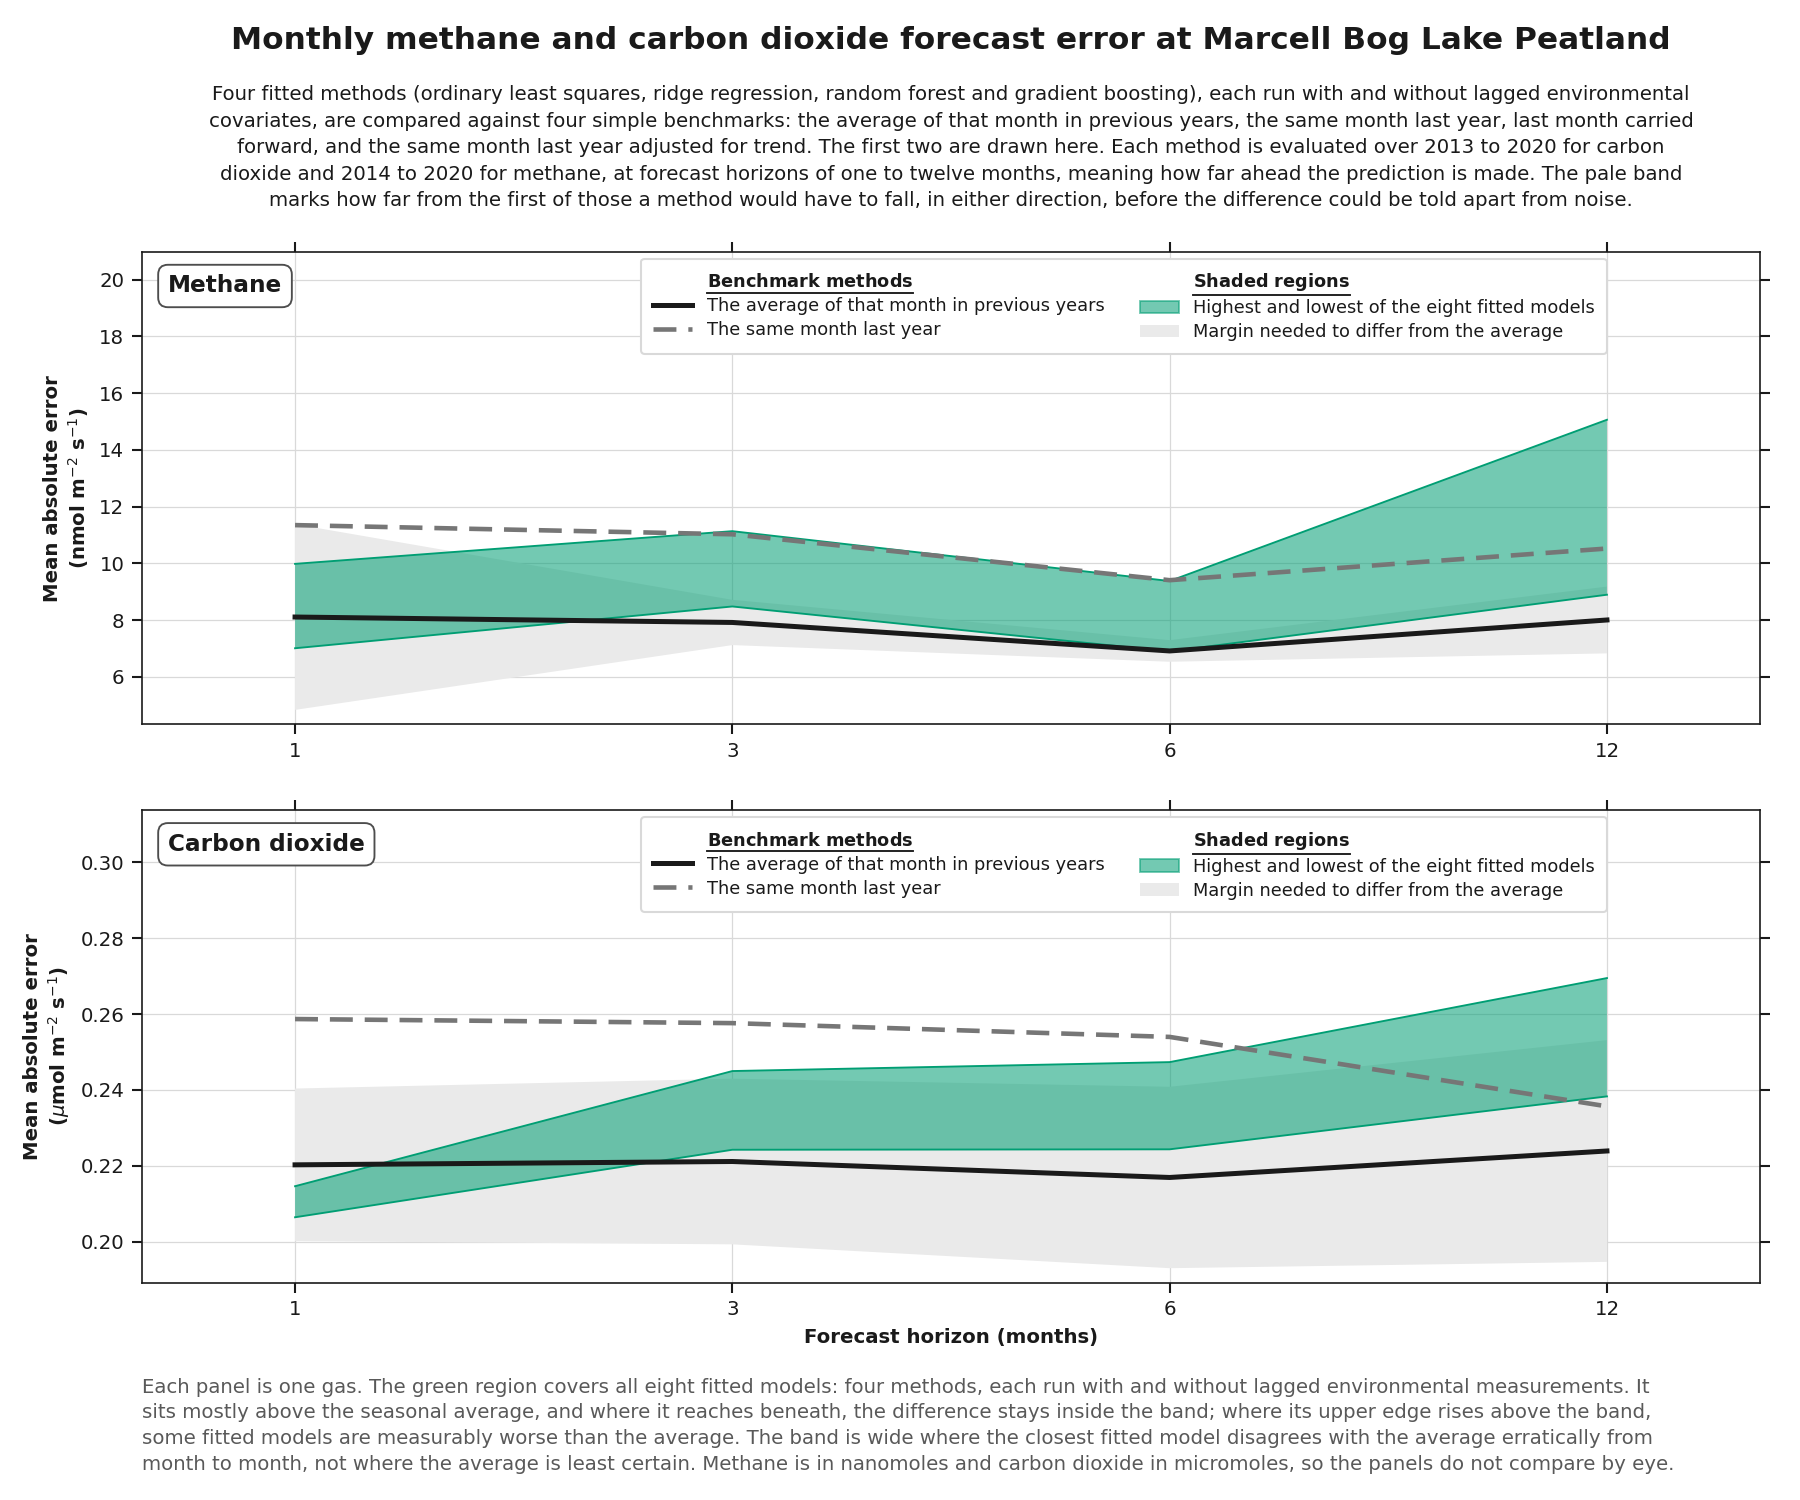
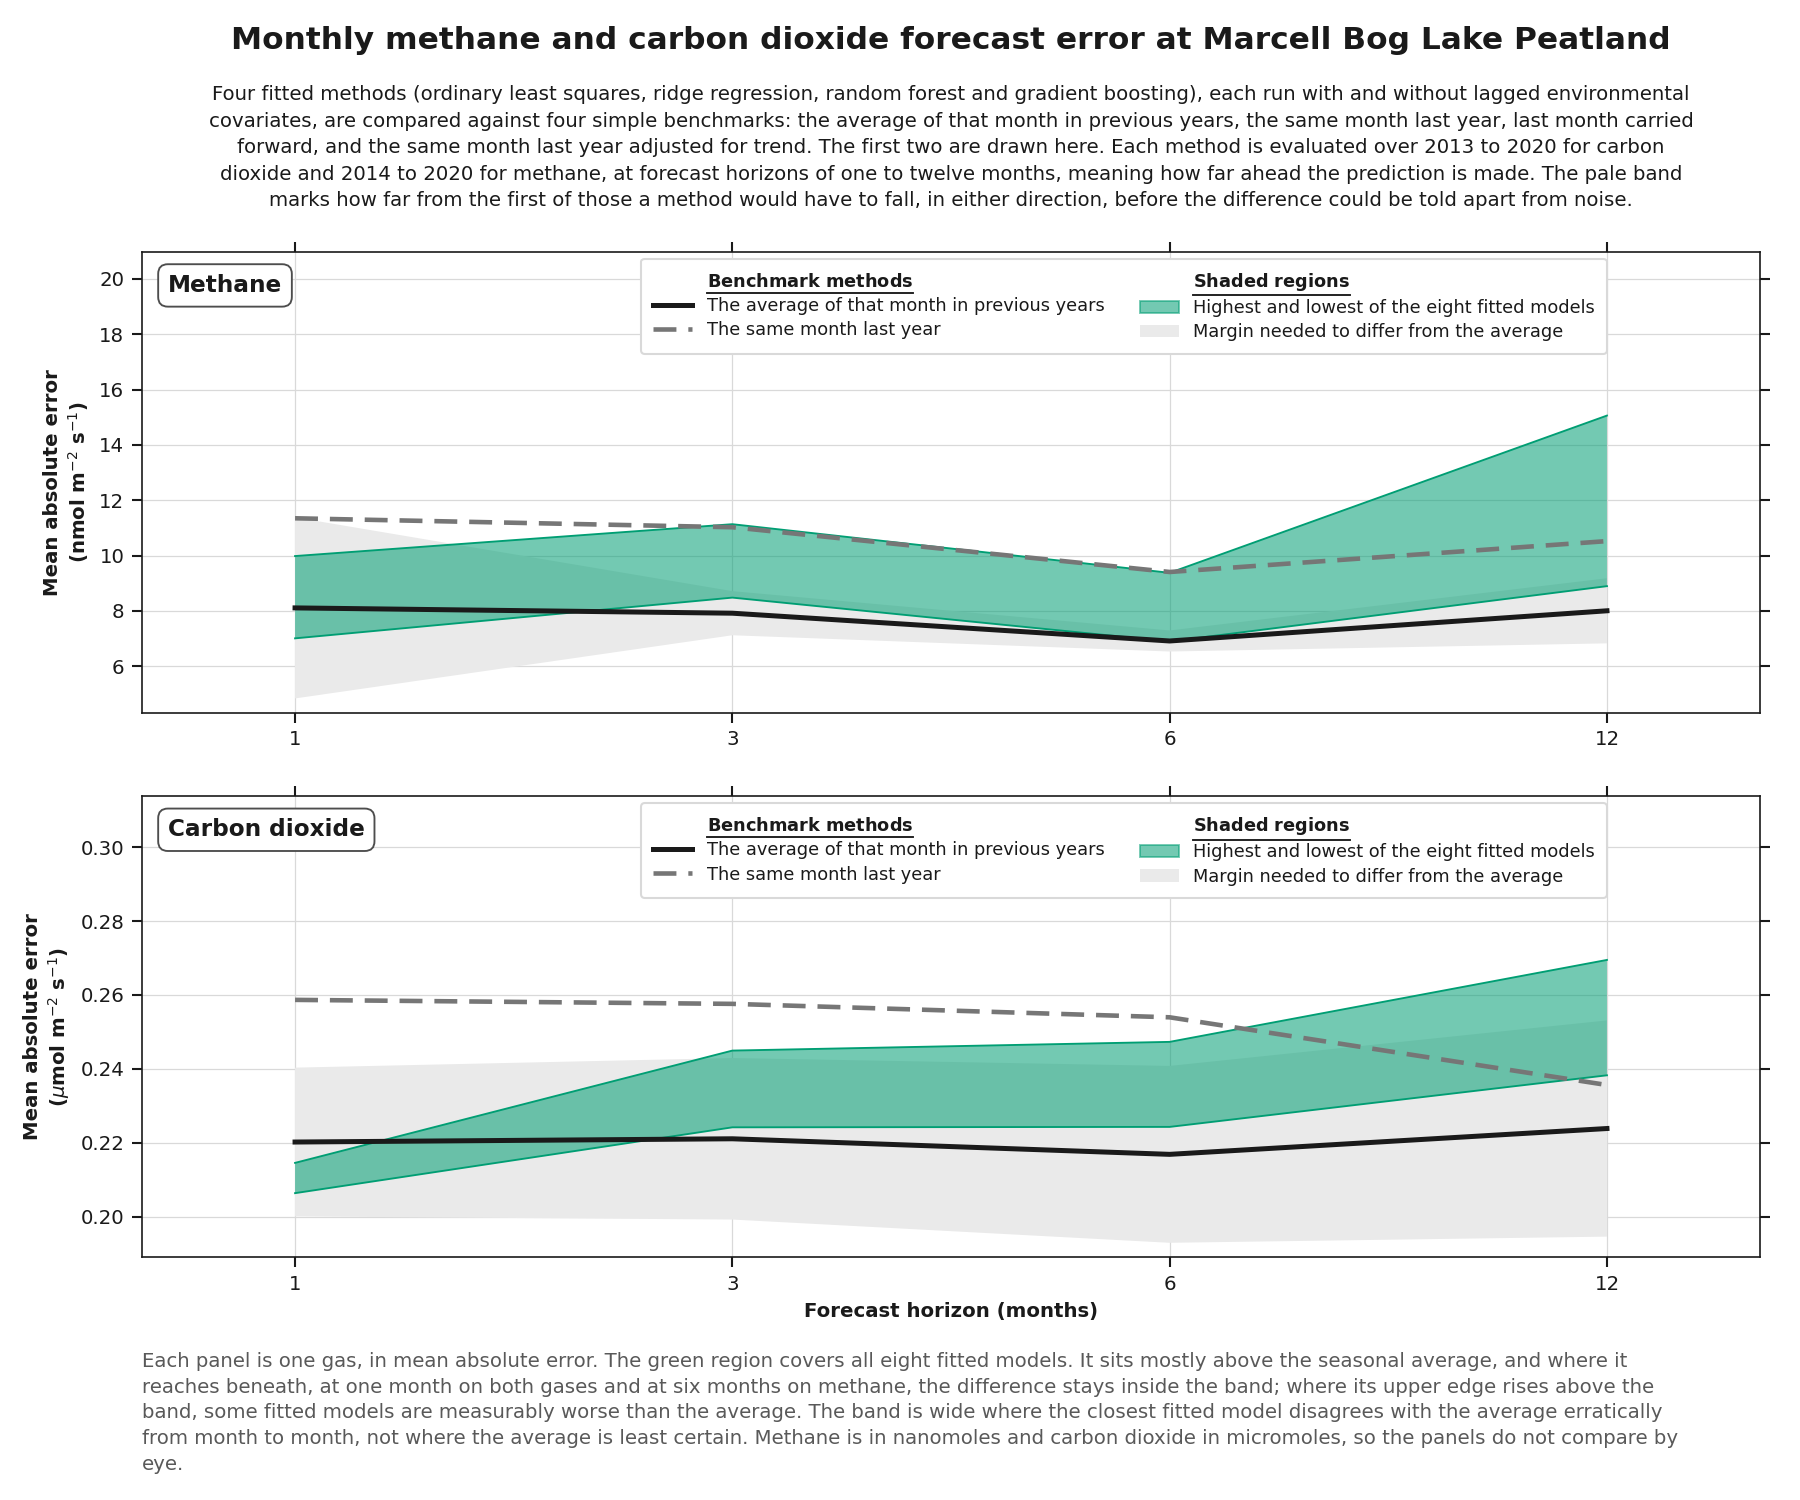
Name the measure on the forecast figure, and cut what the subtitle already said
The description claimed nothing about which measure it was drawn in, while the
README paragraph beside it commits to scaled error. Both were right and they
disagreed by 0.6 of a percentage point, which is the gap between 23 to 28 and 24
to 29. A reader checking one against the other had no way to see that they answer
different questions. The panel is mean absolute error and now says so.

Where the fitted region reaches beneath the seasonal average is now named rather
than left for the reader to find: one month on both gases and six months on
methane, which is the same three cases under either measure.

That addition ran the block to a sixth line and left "eye." alone on it. What
went is "four methods, each run with and without lagged environmental
measurements", which the subtitle already says in nearly the same words, and
which the panel-repetition rule exists to catch. The subtitle still carries the
arithmetic that makes eight models out of four methods, so the description can
say all eight fitted models and stop. Back to five lines.

Ten of the eleven figures regenerated byte-identical.

diff --git a/src/study/figures.py b/src/study/figures.py
@@ -438,10 +438,10 @@ FORECAST_TEXT = ps.FigureText(
         "could be told apart from noise."
     ),
     description=(
-        "Each panel is one gas. The green region covers all eight fitted models: "
-        "four methods, each run with and without lagged environmental "
-        "measurements. It sits mostly above the seasonal average, and where it "
-        "reaches beneath, the difference stays inside the band; where its upper "
+        "Each panel is one gas, in mean absolute error. The green region covers "
+        "all eight fitted models. It sits mostly above the seasonal average, "
+        "and where it reaches beneath, at one month on both gases and at six "
+        "months on methane, the difference stays inside the band; where its upper "
         "edge rises above the band, some fitted models are measurably worse than "
         "the average. The band is wide where the closest fitted model disagrees "
         "with the average erratically from month to month, not where the average "

diff --git a/figures/README_fragments.md b/figures/README_fragments.md
@@ -28,7 +28,7 @@ Each marker is one year's emission in grams of carbon per square meter, from rel
 
 **Four fitted methods (ordinary least squares, ridge regression, random forest and gradient boosting), each run with and without lagged environmental covariates, are compared against four simple benchmarks: the average of that month in previous years, the same month last year, last month carried forward, and the same month last year adjusted for trend. The first two are drawn here. Each method is evaluated over 2013 to 2020 for carbon dioxide and 2014 to 2020 for methane, at forecast horizons of one to twelve months, meaning how far ahead the prediction is made. The pale band marks how far from the first of those a method would have to fall, in either direction, before the difference could be told apart from noise.**
 
-Each panel is one gas. The green region covers all eight fitted models: four methods, each run with and without lagged environmental measurements. It sits mostly above the seasonal average, and where it reaches beneath, the difference stays inside the band; where its upper edge rises above the band, some fitted models are measurably worse than the average. The band is wide where the closest fitted model disagrees with the average erratically from month to month, not where the average is least certain. Methane is in nanomoles and carbon dioxide in micromoles, so the panels do not compare by eye.
+Each panel is one gas, in mean absolute error. The green region covers all eight fitted models. It sits mostly above the seasonal average, and where it reaches beneath, at one month on both gases and at six months on methane, the difference stays inside the band; where its upper edge rises above the band, some fitted models are measurably worse than the average. The band is wide where the closest fitted model disagrees with the average erratically from month to month, not where the average is least certain. Methane is in nanomoles and carbon dioxide in micromoles, so the panels do not compare by eye.
 
 ### Observed and predicted monthly flux at Marcell Bog Lake Peatland (2009 to 2024)
 
